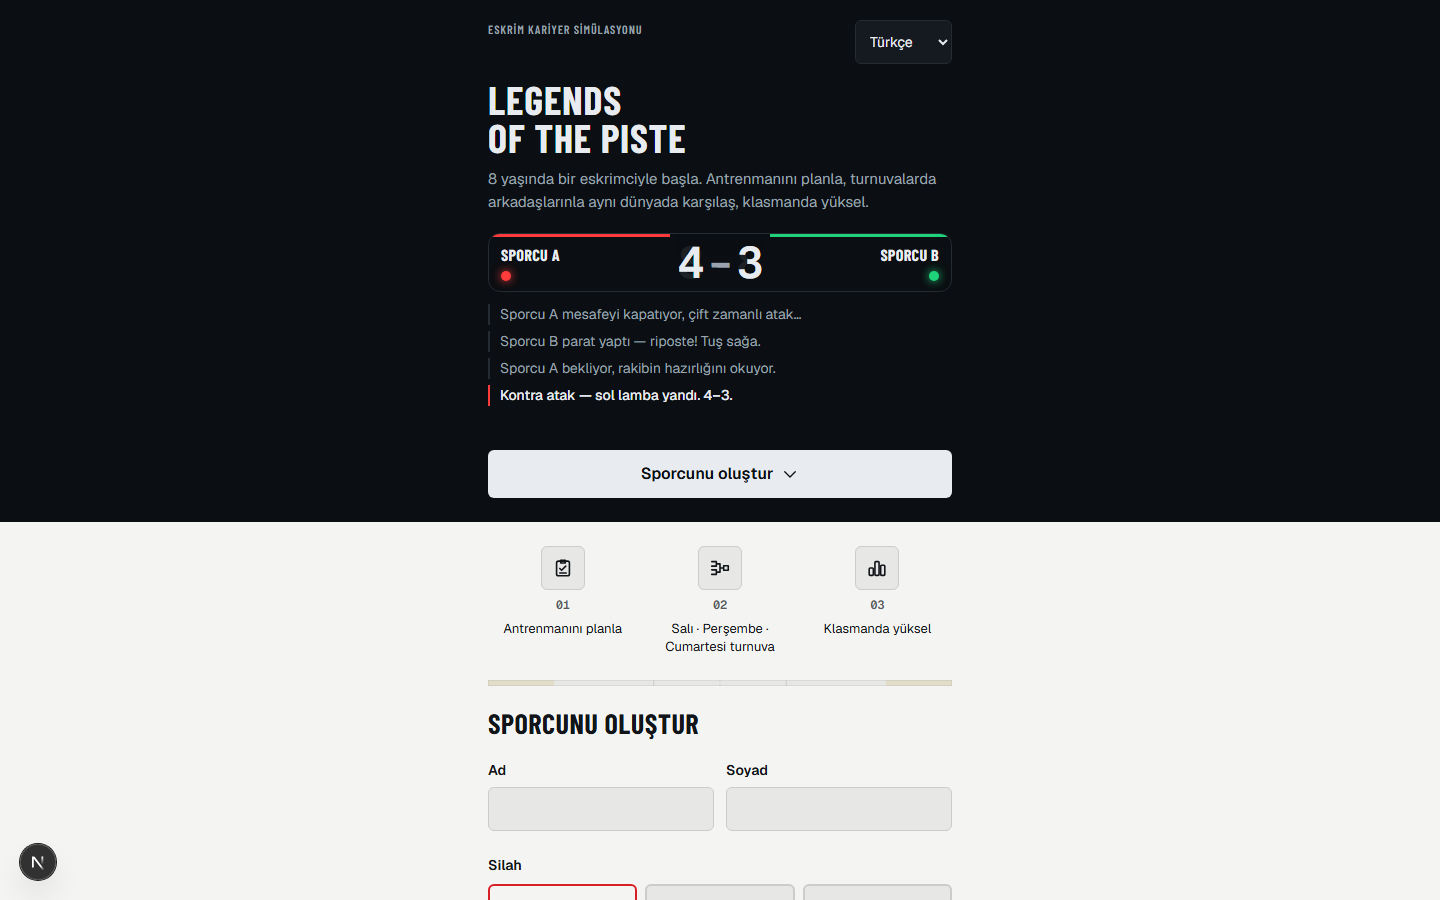
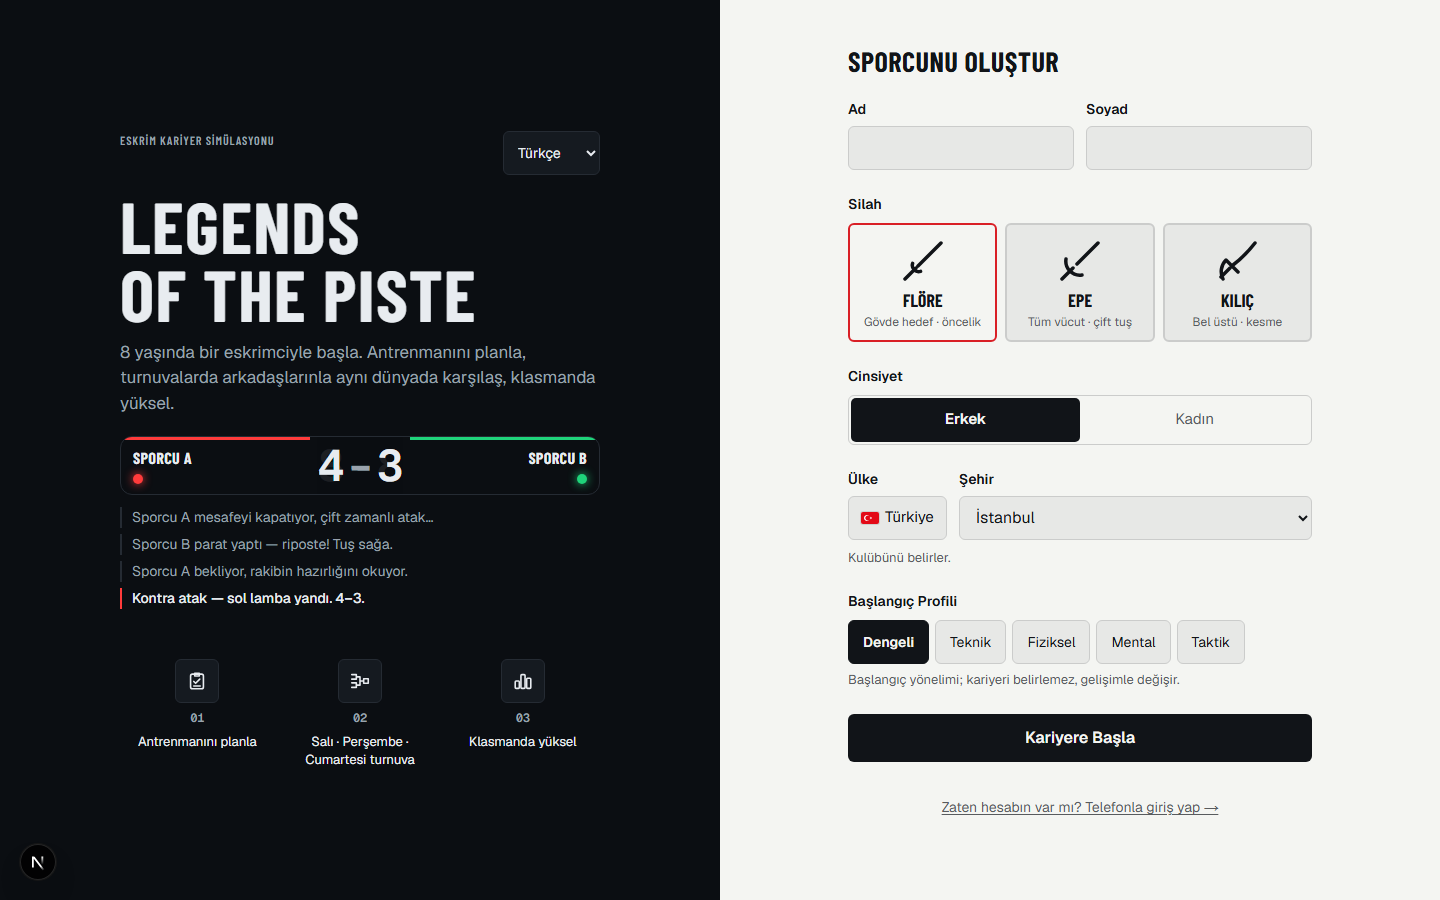
docs(devir): #11 + #12, masaüstü önizlemeleri güncel (#13)

diff --git a/docs/DEVIR.md b/docs/DEVIR.md
@@ -36,8 +36,11 @@ yorumuna girmez. Yapıldıysa yalnız "✅ yapıldı" yazılır.
 | [#7](https://github.com/alkanyus/LOTP/pull/7) | Yeni giriş ekranı (sporcu oluşturma) | #6 |
 | [#8](https://github.com/alkanyus/LOTP/pull/8) | Klasman: sıralama kulesi | #7 |
 | [#9](https://github.com/alkanyus/LOTP/pull/9) | Canlı maç: skor bandı, cihaz renkleri | **Madde 2** |
+| [#11](https://github.com/alkanyus/LOTP/pull/11) | Giriş ekranı masaüstünde iki sütun (solda vitrin, sağda form) | #8 |
+| [#12](https://github.com/alkanyus/LOTP/pull/12) | Antrenman planı: ikonlu 5'li seçim, "Kaydedilmedi" uyarısı | #11 |
 
-PR'lar zincirli: her biri bir öncekinin üstüne kurulu, sırayla merge edilir.
+PR'lar zincirli: her biri bir öncekinin üstüne kurulu, sırayla merge edilir. #9 ile #11 ikisi de #8'in
+üstünde; #11 ve #12 renk kararını beklemez.
 
 ## Senden beklenenler (Yusuf)
 
@@ -135,12 +138,10 @@ Taslak (WhatsApp için, istediğin gibi değiştir):
 
 ## Osman tarafının sıradaki işleri
 
-1. Hook gelince #2 merge → sonra #3 … #8 sırayla merge. Her biri canlıya çıkar, şema değişmez.
+1. Hook gelince #2 merge → sonra #3 … #8, #11, #12 sırayla merge. Her biri canlıya çıkar, şema değişmez.
 2. #9: Madde 2 cevaplanınca merge.
 3. Madde 4'ün cevabına göre giriş güvenliği PR'ı.
 4. Sonra (P1):
-   - masaüstünde giriş ekranı iki sütun
-   - antrenman planı yeni stil
    - geçmiş / kulüp / ayarlar sayfalarında kalan emoji'ler
    - pul kağıdı
    - beyaz lamba (flöre/kılıç geçersiz tuş)
